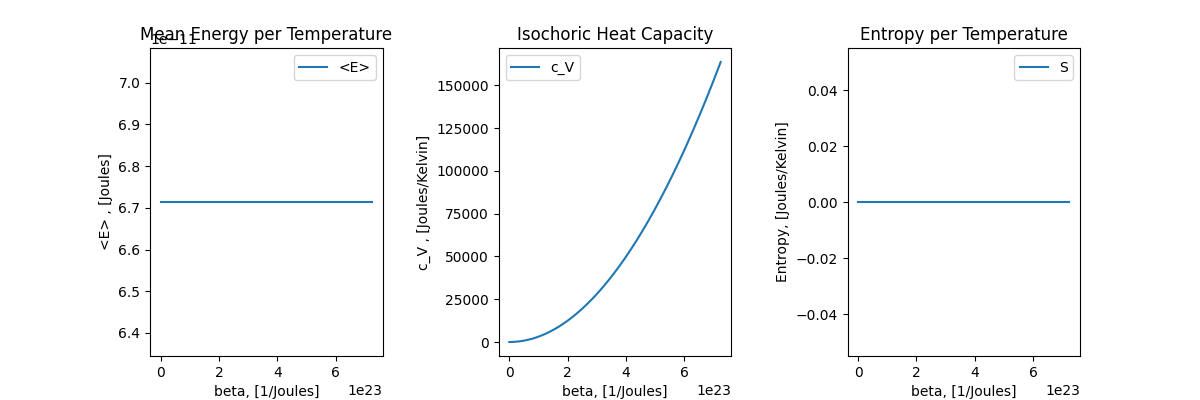
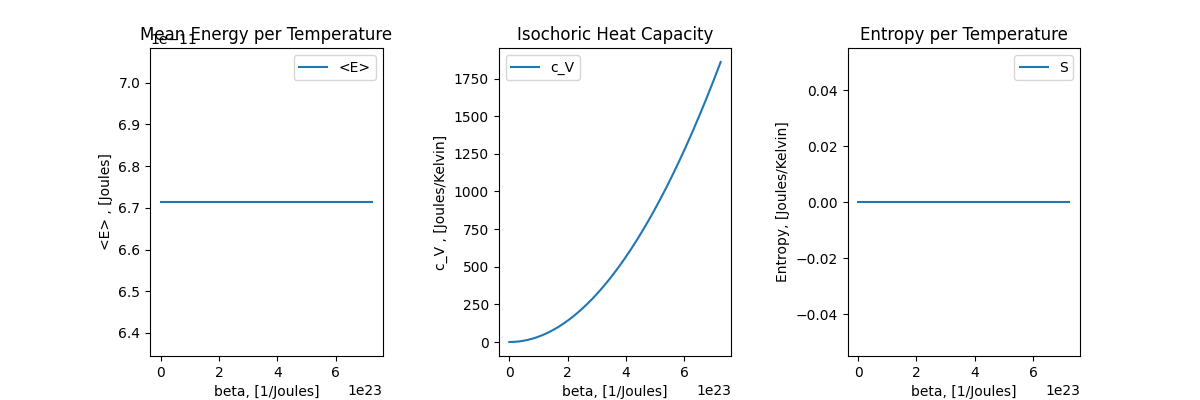
Fixed issue where a0 should be a3

Changed region(s): [[0.3392, 0.27, 0.4317, 0.69], [0.37, 0.72, 0.4317, 0.78], [0.37, 0.18, 0.4317, 0.24]]

diff --git a/2DArbitraryState.py b/2DArbitraryState.py
@@ -428,19 +428,19 @@ if setd["simp"] == True:
     print("Hand simplification used for statistical mechanics results.")
     #Calculate 1 particle characteristics
     #natural log partition function, ln(Z)
-    lnZ = -0.5*beta*(a0-a3) + ln(exp(-1*a0*beta) + 1)
+    lnZ = -0.5*beta*(a0-a3) + ln(exp(-1*a3*beta) + 1)
     #Mean energy , <E>. Includes thermal and quantum parts
     #meanE = 0.5*(a0-a3) + a0/(exp(beta*a0)+1)
     #meanE = 0.5*(a0-a3) + a0*expit(-1.0*beta*a0)
-    meanE = 0.5*(a0-a3) + a0*0.5*(1.0-tanh(beta*a0))
+    meanE = 0.5*(a0-a3) + a3*0.5*(1.0-tanh(beta*a3))
     #Thermal entropy. Not the Shannon (aka cannonical or information) entropy.
     #entS = kB * (ln(exp(-beta*a0)+1) - beta*a0/(exp(beta*a0)+1))
     #entS = kB * (ln(1.0/expit(beta*a0)) - beta*a0*expit(-1.0*beta*a0))
-    entS = kB * (ln(exp(-beta*a0)+1) - beta*a0*0.5*(1.0-tanh(beta*a0)))
+    entS = kB * (ln(exp(-beta*a3)+1) - beta*a3*0.5*(1.0-tanh(beta*a3)))
     #Isochoric heat capacity, i.e. heat capacity for a fixed volume
     #cV = a0**2 * beta**2 * kB * 1/(2*cosh(a0*beta) + 2)
     #cV = a0**2 * beta**2 * kB * exp(beta*a0)/(exp(beta*a0) + 1)
-    cV = a0**2 * beta**2 * kB * (1 - 0.5*(1.0-tanh(beta*a0)))
+    cV = a3**2 * beta**2 * kB * (1 - 0.5*(1.0-tanh(beta*a3)))
     #cV = a0**2 * beta**2 * kB * (1 - expit(-1.0 * beta*a0))
     
     #Somewhat repeating now but for a system with N particles
@@ -451,26 +451,26 @@ if setd["simp"] == True:
     #This also assumes they are identical and non-interacting.
     #Else you pick up 1/N! and other things
     #Our new N dependent values:
-    lnZ_N = -0.5*beta*N*(a0-a3) + ln(exp(-1*a0*beta*N) + 1)
+    lnZ_N = -0.5*beta*N*(a0-a3) + ln(exp(-1*a3*beta*N) + 1)
     #meanE_N = 0.5*N*(a0-a3) + a0*N/(exp(beta*a0*N)+1)
-    meanE_N = 0.5*N*(a0-a3) + a0*N*0.5*(1.0-tanh(beta*a0*N))
+    meanE_N = 0.5*N*(a0-a3) + a3*N*0.5*(1.0-tanh(beta*a3*N))
     #entS_N = kB * (ln(exp(-beta*a0*N)+1) - beta*a0*N/(exp(beta*a0*N)+1))
-    entS_N = kB * (ln(exp(-beta*a0*N)+1) - beta*a0*N*0.5*(1.0-tanh(beta*a0*N)))
+    entS_N = kB * (ln(exp(-beta*a3*N)+1) - beta*a3*N*0.5*(1.0-tanh(beta*a3*N)))
     #cV_N = a0**2 * N**2 * beta**2 * kB * (1 - 1/(exp(beta*a0*N)+1))
-    cV_N = a0**2 * N**2 * beta**2 * kB * (1 - 0.5*(1.0-tanh(beta*a0*N)))
+    cV_N = a3**2 * N**2 * beta**2 * kB * (1 - 0.5*(1.0-tanh(beta*a3*N)))
     #Since we have number we can get the chemical potential by differentiating with respect to N
     #chem = -1.0/beta * diff(lnZ_N,N)
     #chem = -1.0/beta*( (beta*(a0-a3) - a0*beta/(exp(a0*beta*N)+1))
     #chem = (a0/(exp(a0*beta*N)+1) - (a0-a3))
-    chem = (a0*0.5*(1.0-tanh(beta*a0*N)) - (a0-a3))
+    chem = (a3*0.5*(1.0-tanh(beta*a3*N)) - (a0-a3))
     #Remember that N = n * V where n is the number density and V is the volume.
     #We are treating N as a variable and n as a variable to keep V constant since we used the isochoric heat capacity.
     #In other words, we can transform from N to V by using this relationship V = N/n ...
     #Then we can differentiate with respect to volume in order to get the pressure.
-    lnZ_V = -0.5*beta*r*V*(a0-a3) + ln(exp(-1*a0*beta*r*V) + 1)
+    lnZ_V = -0.5*beta*r*V*(a0-a3) + ln(exp(-1*a3*beta*r*V) + 1)
     #press = 1/beta * diff(lnZ_V,V) -> this is similar to chemical potential
     #press = r*((a0-a3) - a0/(exp(a0*beta*r*V)+1)) #Check that the units are in Joules/Volume
-    press = r*((a0-a3) - a0*0.5*(1.0-tanh(beta*a0*r*V)))
+    press = r*((a0-a3) - a3*0.5*(1.0-tanh(beta*a3*r*V)))
 else:
     print("Machine simplification and solutions used for statistical mechanics results.")
     #Calculating 1 particle characteristics ... to see explanations and notes read the above section
@@ -484,13 +484,13 @@ else:
     cV = kB * beta**2 * diff(diff(lnZ,beta),beta)
     #Notice that cV and entropy have the same units of Energy/Temperature
     #Repeat for N dependent terms and partition function
-    lnZ_N = -0.5*beta*N*(a0-a3) + ln(exp(-1*a0*beta*N) + 1)
+    lnZ_N = -0.5*beta*N*(a0-a3) + ln(exp(-1*a3*beta*N) + 1)
     meanE_N = simplify(-1*diff(lnZ_N,beta))
     entS_N = kB*lnZ_N + kB*beta*meanE_N
     cV_N = kB * beta**2 * diff(diff(lnZ_N,beta),beta)
     #The N dependent terms, chemical potential and pressure
     chem = -1.0/beta * diff(lnZ_N,N)
-    lnZ_V = -0.5*beta*r*V*(a0-a3) + ln(exp(-1*a0*beta*r*V) + 1)
+    lnZ_V = -0.5*beta*r*V*(a0-a3) + ln(exp(-1*a3*beta*r*V) + 1)
     press = 1/beta * diff(lnZ_V,V)
     
 if setd["symbolic"] == False:
